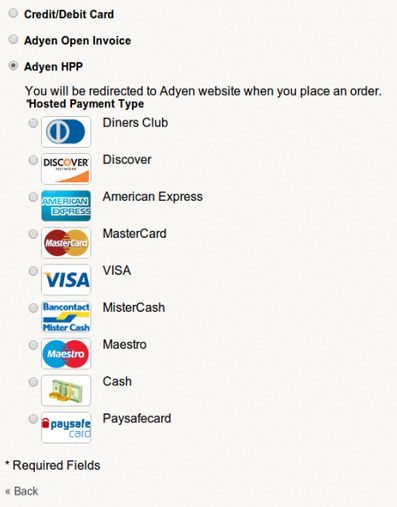
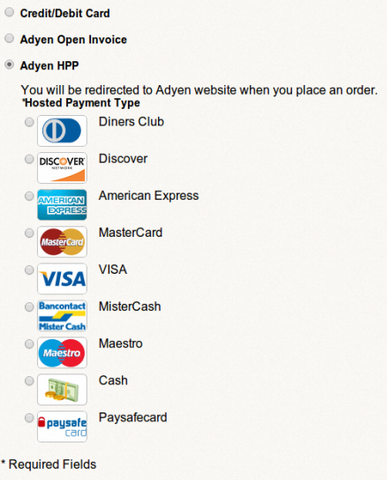
final version

Changed region(s): [[0.0, 0.0, 0.9612, 1.0]]

diff --git a/build3/app.js b/build3/app.js
@@ -1,4 +1,4 @@
-var Bg, CheckoutAdyen, CheckoutAdyenProceed, CheckoutArrows, CheckoutArrows2, CheckoutBilling, CheckoutBillingProceed, CheckoutDetailsPrice1, CheckoutDetailsPrice2, CheckoutDetailsText, CheckoutDownload, CheckoutFooter, CheckoutGotocart, CheckoutImage1, CheckoutImage1Details1, CheckoutImage1Details2, CheckoutImage2, CheckoutImageText, CheckoutPriceText, CheckoutProgress1, CheckoutProgress2, CheckoutProgress3, CheckoutProgress4, CheckoutSelect, CheckoutSelect2, CheckoutSelectText, CheckoutSelector1, CheckoutSelector11, CheckoutSelector2, CheckoutSelector22, CheckoutSeparator, CheckoutSizeText, CheckoutSizeText2, CollectionBG, Dot, Filter, FilterGroupA, IconBuy, IconCollection, IconMore, IconSearch, IconSelector, IconSeparator1, IconSeparator2, IconSeparator3, IconSeparator4, IconSeparator5, IconSeparator6, IconSettings, Menu, MenuTriangle, MenuTriangleb, Menugray, More, MoreCover, MoreText1, MoreText2, MoreText3, Profile, SearchActive, SearchActiveA, SearchActiveB, SearchBG, SearchBar, SearchFilter, SearchFilters, SearchFsAddtocart, SearchFsArrowsLeft, SearchFsArrowsRight, SearchFsBG, SearchFsBG2, SearchFsGotocart, SearchFsImage, SearchFsInfo, SearchFsLicense, SearchFsLicense2, SearchFsLicense3, SearchFsLicensePrice, SearchFsLicensePriceLabel, SearchFsLicenseText, SearchFsLicenseText2, SearchFsLicenseText3, SearchFsMore, SearchFsSelect, SearchFsSeparator, SearchFsText, SearchInput, SearchMouseover, SearchOverlay, adyenoff, adyenon, billingoff, billingon, checkoutprgressoff, chprogress1on, chprogress2on, chprogress3on, chprogress4on, collectionoff, collectionon, downloadoff, downloadon, filteroff, filteron, fsimagemore, fullscreenoff, fullscreenon, imageoff, morebigscreen, moreoff, price1, pulse, searchin, searchoff, searchon, summaryoff, summaryon, timedot, timefilter, timeselect, timeslider, triangleblack, trianglewhite;
+var Bg, CheckoutAdyen, CheckoutAdyenBack, CheckoutAdyenProceed, CheckoutArrows, CheckoutArrows2, CheckoutBilling, CheckoutBillingBack, CheckoutBillingProceed, CheckoutDetailsPrice1, CheckoutDetailsPrice2, CheckoutDetailsText, CheckoutDownload, CheckoutDownloadBack, CheckoutFooter, CheckoutGotocart, CheckoutImage1, CheckoutImage1Details1, CheckoutImage1Details2, CheckoutImage2, CheckoutImageText, CheckoutPriceText, CheckoutProgress1, CheckoutProgress2, CheckoutProgress3, CheckoutProgress4, CheckoutSelect, CheckoutSelect2, CheckoutSelectText, CheckoutSelector1, CheckoutSelector11, CheckoutSelector2, CheckoutSelector22, CheckoutSeparator, CheckoutSizeText, CheckoutSizeText2, CheckoutSummaryBack, CollectionBG, Dot, Filter, FilterGroupA, IconBuy, IconCollection, IconMore, IconSearch, IconSelector, IconSeparator1, IconSeparator2, IconSeparator3, IconSeparator4, IconSeparator5, IconSeparator6, IconSettings, Menu, MenuTriangle, MenuTriangleb, Menugray, More, MoreCover, MoreText1, MoreText2, MoreText3, Profile, SearchActive, SearchActiveA, SearchActiveB, SearchBG, SearchBar, SearchBuyOverlay, SearchFilter, SearchFilters, SearchFsAddtocart, SearchFsArrowsLeft, SearchFsArrowsRight, SearchFsBG, SearchFsBG2, SearchFsGotocart, SearchFsImage, SearchFsInfo, SearchFsLicense, SearchFsLicense2, SearchFsLicense3, SearchFsLicensePrice, SearchFsLicensePriceLabel, SearchFsLicenseText, SearchFsLicenseText2, SearchFsLicenseText3, SearchFsMore, SearchFsSelect, SearchFsSeparator, SearchFsText, SearchInput, SearchMouseover, SearchOverlay, adyenoff, adyenon, billingoff, billingon, checkoutprgressoff, chprogress1on, chprogress2on, chprogress3on, chprogress4on, collectionoff, collectionon, downloadoff, downloadon, filteroff, filteron, fsimagemore, fullscreenoff, fullscreenon, imageoff, morebigscreen, moreoff, price1, pulse, searchin, searchoff, searchon, summaryoff, summaryon, timedot, timefilter, timeselect, timeslider, triangleblack, trianglewhite;
 
 Framer.Device.deviceType = "fullscreen";
 
@@ -224,6 +224,16 @@ SearchMouseover = new Layer({
   height: 145,
   visible: false,
   backgroundColor: "transparent"
+});
+
+SearchBuyOverlay = new Layer({
+  x: 299,
+  y: 351,
+  opacity: 1,
+  width: 242,
+  height: 145,
+  visible: false,
+  image: "images/imageinfo2.png"
 });
 
 SearchOverlay = new Layer({
@@ -770,6 +780,16 @@ CheckoutGotocart = new Layer({
   image: "images/gotocart.png"
 });
 
+CheckoutSummaryBack = new Layer({
+  x: 1060,
+  y: 100,
+  width: 150,
+  height: 35,
+  opacity: 1,
+  visible: false,
+  image: "images/stepback.png"
+});
+
 CheckoutBilling = new Layer({
   x: 150,
   y: 100,
@@ -788,6 +808,16 @@ CheckoutBillingProceed = new Layer({
   opacity: 1,
   visible: false,
   image: "images/gotocart.png"
+});
+
+CheckoutBillingBack = new Layer({
+  x: 150,
+  y: 550,
+  width: 150,
+  height: 35,
+  opacity: 1,
+  visible: false,
+  image: "images/stepback.png"
 });
 
 CheckoutAdyen = new Layer({
@@ -810,6 +840,16 @@ CheckoutAdyenProceed = new Layer({
   image: "images/gotocart.png"
 });
 
+CheckoutAdyenBack = new Layer({
+  x: 150,
+  y: 650,
+  width: 150,
+  height: 35,
+  opacity: 1,
+  visible: false,
+  image: "images/stepback.png"
+});
+
 CheckoutDownload = new Layer({
   x: 150,
   y: 100,
@@ -818,6 +858,16 @@ CheckoutDownload = new Layer({
   opacity: 1,
   visible: false,
   image: "images/past orders.png"
+});
+
+CheckoutDownloadBack = new Layer({
+  x: 150,
+  y: 400,
+  width: 150,
+  height: 35,
+  opacity: 1,
+  visible: false,
+  image: "images/stepback.png"
 });
 
 CollectionBG = new Layer({
@@ -1155,6 +1205,15 @@ SearchActiveB.states.add({
 });
 
 SearchMouseover.states.add({
+  hidden: {
+    visible: false
+  },
+  visible: {
+    visible: true
+  }
+});
+
+SearchBuyOverlay.states.add({
   hidden: {
     visible: false
   },
@@ -1795,6 +1854,42 @@ CheckoutDownload.states.add({
   }
 });
 
+CheckoutSummaryBack.states.add({
+  hidden: {
+    visible: false
+  },
+  visible: {
+    visible: true
+  }
+});
+
+CheckoutBillingBack.states.add({
+  hidden: {
+    visible: false
+  },
+  visible: {
+    visible: true
+  }
+});
+
+CheckoutAdyenBack.states.add({
+  hidden: {
+    visible: false
+  },
+  visible: {
+    visible: true
+  }
+});
+
+CheckoutDownloadBack.states.add({
+  hidden: {
+    visible: false
+  },
+  visible: {
+    visible: true
+  }
+});
+
 CheckoutSizeText.states.add({
   one: {
     html: "<span style='font-family: sans-serif; color: white; font-size: 18px'>800 x 450</span>"
@@ -2020,7 +2115,7 @@ IconSearch.on(Events.Click, function() {
   checkoutprgressoff();
   return Dot.animate({
     properties: {
-      x: 320,
+      x: 400,
       y: 400
     },
     curve: "ease-in-out",
@@ -2468,12 +2563,14 @@ fullscreenoff = function() {
 
 billingon = function() {
   CheckoutBilling.states["switch"]("visible");
-  return CheckoutBillingProceed.states["switch"]("visible");
+  CheckoutBillingProceed.states["switch"]("visible");
+  return CheckoutBillingBack.states["switch"]("visible");
 };
 
 billingoff = function() {
   CheckoutBilling.states["switch"]("hidden");
-  return CheckoutBillingProceed.states["switch"]("hidden");
+  CheckoutBillingProceed.states["switch"]("hidden");
+  return CheckoutBillingBack.states["switch"]("hidden");
 };
 
 CheckoutGotocart.on(Events.Click, function() {
@@ -2490,14 +2587,21 @@ CheckoutGotocart.on(Events.Click, function() {
   });
 });
 
+CheckoutBillingBack.on(Events.Click, function() {
+  summaryon();
+  return billingoff();
+});
+
 adyenon = function() {
   CheckoutAdyen.states["switch"]("visible");
-  return CheckoutAdyenProceed.states["switch"]("visible");
+  CheckoutAdyenProceed.states["switch"]("visible");
+  return CheckoutAdyenBack.states["switch"]("visible");
 };
 
 adyenoff = function() {
   CheckoutAdyen.states["switch"]("hidden");
-  return CheckoutAdyenProceed.states["switch"]("hidden");
+  CheckoutAdyenProceed.states["switch"]("hidden");
+  return CheckoutAdyenBack.states["switch"]("hidden");
 };
 
 CheckoutBillingProceed.on(Events.Click, function() {
@@ -2514,12 +2618,19 @@ CheckoutBillingProceed.on(Events.Click, function() {
   });
 });
 
+CheckoutAdyenBack.on(Events.Click, function() {
+  adyenoff();
+  return billingon();
+});
+
 downloadon = function() {
-  return CheckoutDownload.states["switch"]("visible");
+  CheckoutDownload.states["switch"]("visible");
+  return CheckoutDownloadBack.states["switch"]("visible");
 };
 
 downloadoff = function() {
-  return CheckoutDownload.states["switch"]("hidden");
+  CheckoutDownload.states["switch"]("hidden");
+  return CheckoutDownloadBack.states["switch"]("hidden");
 };
 
 CheckoutAdyenProceed.on(Events.Click, function() {
@@ -2533,6 +2644,11 @@ CheckoutAdyenProceed.on(Events.Click, function() {
     curve: "ease-in-out",
     time: timedot
   });
+});
+
+CheckoutDownloadBack.on(Events.Click, function() {
+  adyenon();
+  return downloadoff();
 });
 
 SearchFsGotocart.on(Events.MouseOver, function() {
@@ -2598,6 +2714,22 @@ SearchFsAddtocart.on(Events.MouseOut, function() {
 
 SearchOverlay.on(Events.Click, function() {
   return fullscreenoff();
+});
+
+SearchMouseover.on(Events.MouseOver, function() {
+  SearchBuyOverlay.states["switch"]("visible");
+  return Dot.animate({
+    properties: {
+      x: 480,
+      y: 480
+    },
+    curve: "ease-in-out",
+    time: timedot
+  });
+});
+
+SearchMouseover.on(Events.MouseOut, function() {
+  return SearchBuyOverlay.states["switch"]("hidden");
 });
 
 SearchMouseover.on(Events.Click, function() {
